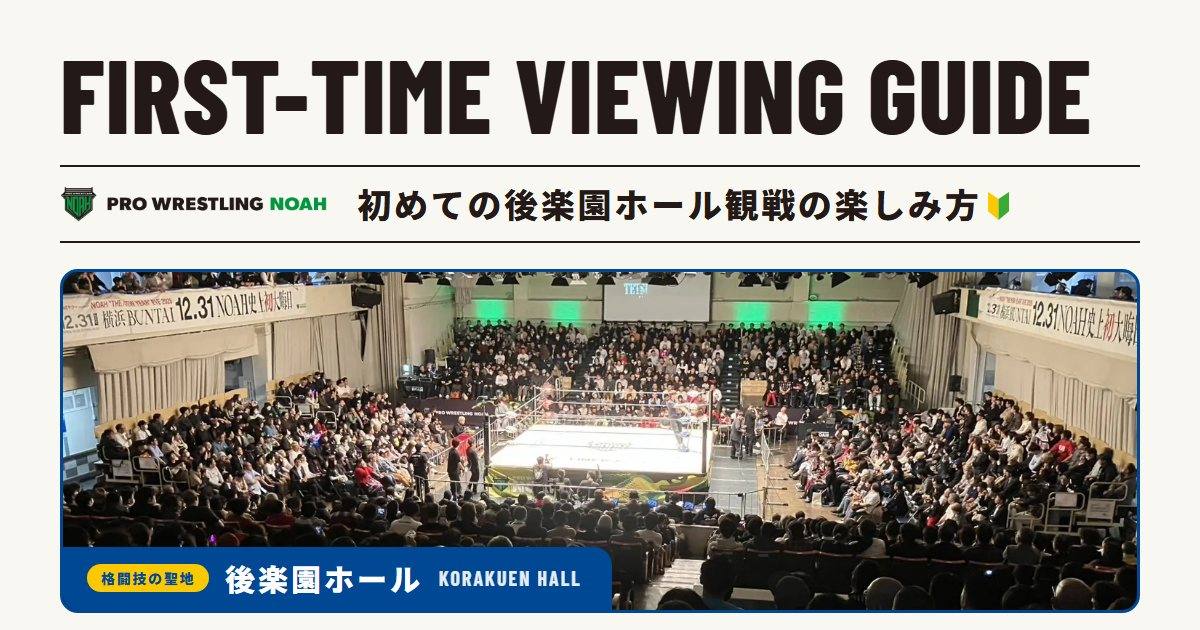
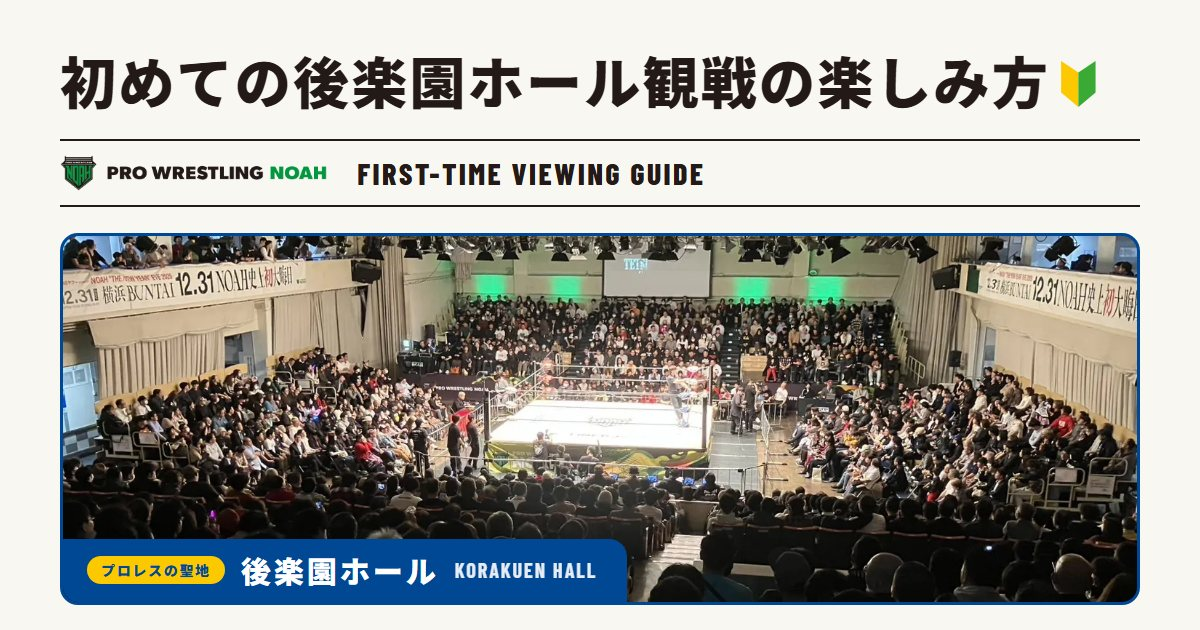
update beginner 2026-11-20_1518

diff --git a/beginner/index.html b/beginner/index.html
@@ -5,10 +5,10 @@
   <meta name="viewport" content="width=device-width, initial-scale=1">
   <meta name="robots" content="noindex,nofollow">
   <title>初めてのNOAH観戦ガイド 後楽園ホール編｜プロレスリング・ノア</title>
-  <meta name="description" content="初めての後楽園ホール観戦の楽しみ方。チケットの買い方、座席とアクセス、グッズの事前購入、サイン会の参加方法、プロレスのルールまで。格闘技の聖地・後楽園ホールで初めてNOAHを観戦する方へのご案内。プロレスリング・ノア。">
+  <meta name="description" content="初めての後楽園ホール観戦の楽しみ方を、チケットの買い方から座席とアクセス、グッズの事前購入、サイン会の参加方法、プロレスのルールまでご案内します。プロレスの聖地・後楽園ホールで初めてプロレスを観戦する方は、ぜひご活用ください。">
   <meta property="og:type" content="website">
   <meta property="og:title" content="初めてのNOAH観戦ガイド 後楽園ホール編｜プロレスリング・ノア">
-  <meta property="og:description" content="初めての後楽園ホール観戦の楽しみ方。チケットの買い方、座席とアクセス、グッズの事前購入、サイン会の参加方法、プロレスのルールまで。格闘技の聖地・後楽園ホールで初めてNOAHを観戦する方へのご案内。プロレスリング・ノア。">
+  <meta property="og:description" content="初めての後楽園ホール観戦の楽しみ方を、チケットの買い方から座席とアクセス、グッズの事前購入、サイン会の参加方法、プロレスのルールまでご案内します。プロレスの聖地・後楽園ホールで初めてプロレスを観戦する方は、ぜひご活用ください。">
   <meta property="og:site_name" content="初めてのNOAH観戦ガイド｜プロレスリング・ノア">
   <meta property="og:url" content="https://www.noah.co.jp/lp/beginner/">
   <meta property="og:image" content="https://www.noah.co.jp/lp/beginner/img/ogp.jpg">
@@ -17,7 +17,7 @@
   <meta name="twitter:card" content="summary_large_image">
   <meta name="twitter:site" content="@noah_ghc">
   <meta name="theme-color" content="#004894">
-  <link rel="icon" href="img/noah_badge.png">
+  <link rel="icon" type="image/png" href="img/favicon.png">
   <link rel="preconnect" href="https://fonts.googleapis.com"><link rel="preconnect" href="https://fonts.gstatic.com" crossorigin>
   <link href="https://fonts.googleapis.com/css2?family=Barlow+Condensed:ital,wght@0,700;0,800;1,800&family=Noto+Sans+JP:wght@700;900&display=swap" rel="stylesheet">
   <!-- Google Tag Manager -->
@@ -83,10 +83,10 @@ h1,h2,h3,h4,b,.sec__lead,.hero__lead,.qk small,.ev__t,.bar__s,.pt p,.gd__n,.last
 
 /* hero */
 .hero{padding:52px 0 28px}
-.hero__en{font-family:var(--ff-en);font-weight:800;font-size:min(9.1vw,104px);line-height:.95;letter-spacing:.01em;white-space:nowrap}
+.hero__en{font-family:var(--ff-en);font-weight:800;font-size:30px;line-height:1;letter-spacing:.08em;white-space:nowrap}
 .hero__row{display:flex;align-items:center;gap:10px 30px;margin-top:22px;padding:14px 0;border-top:2px solid var(--ink);border-bottom:2px solid var(--ink)}
 .hero__row img{height:36px;width:auto;flex:none}
-.hero__ja{font-family:var(--ff-hd);font-weight:900;font-size:clamp(20px,3vw,34px);letter-spacing:.08em;line-height:1.35}
+.hero__ja{font-family:var(--ff-hd);font-weight:900;font-size:min(4.7vw,56px);letter-spacing:.04em;line-height:1.3;white-space:nowrap}
 .hero__lead{font-size:16px;line-height:2;margin-top:26px}
 .mv{position:relative;margin-top:28px;border:3px solid var(--bl);border-radius:18px;overflow:hidden;background:var(--bl)}
 .mv img{width:100%;aspect-ratio:16/9;object-fit:cover;object-position:50% 62%}
@@ -341,9 +341,10 @@ h1,h2,h3,h4,b,.sec__lead,.hero__lead,.qk small,.ev__t,.bar__s,.pt p,.gd__n,.last
   .card__hd .bdg{right:8px;top:-18px}
   .card__bd{padding:18px 16px 20px}
   .hero{padding:30px 0 16px}
-  .hero__en{font-size:19.5vw;white-space:normal}
-  .hero__row{flex-direction:column;align-items:flex-start;margin-top:16px;padding:12px 0}
-  .hero__row img{height:26px}
+  .hero__ja{font-size:8.4vw;line-height:1.32}
+  .hero__en{font-size:4.4vw;letter-spacing:.05em}
+  .hero__row{gap:10px;margin-top:14px;padding:11px 0}
+  .hero__row img{height:4.1vw}
   .hero__lead{font-size:14.5px;line-height:1.95;margin-top:18px}
   br.pc{display:none}
   .mv{margin-top:18px;border-radius:14px}
@@ -438,14 +439,14 @@ h1,h2,h3,h4,b,.sec__lead,.hero__lead,.qk small,.ev__t,.bar__s,.pt p,.gd__n,.last
 <main id="top">
   <section class="hero">
     <div class="wrap">
-      <p class="hero__en">FIRST-TIME <br class="sp">VIEWING GUIDE</p>
-      <div class="hero__row"><img src="img/noah_lockup.png" alt="PRO WRESTLING NOAH" width="772" height="104"><h1 class="hero__ja">初めての後楽園ホール観戦の楽しみ方<svg class="wakaba" viewBox="0 0 24 32" aria-hidden="true"><path d="M0 0l12 8v24L0 22z" fill="#FCC800"/><path d="M24 0L12 8v24l12-10z" fill="#3BAA34"/></svg></h1></div>
+      <h1 class="hero__ja">初めての後楽園ホール<br class="sp">観戦の楽しみ方<svg class="wakaba" viewBox="0 0 24 32" aria-hidden="true"><path d="M0 0l12 8v24L0 22z" fill="#FCC800"/><path d="M24 0L12 8v24l12-10z" fill="#3BAA34"/></svg></h1>
+      <div class="hero__row"><img src="img/noah_lockup.png" alt="PRO WRESTLING NOAH" width="772" height="104"><p class="hero__en">FIRST-TIME VIEWING GUIDE</p></div>
       <figure class="mv"><picture><source media="(max-width:900px)" srcset="img/mv_s.webp"><img src="img/mv.webp" alt="満員の後楽園ホール" width="1477" height="1108" fetchpriority="high"></picture>
-        <figcaption class="mv__cap"><small>格闘技の聖地</small><b>後楽園ホール</b><i>KORAKUEN HALL</i></figcaption></figure>
-      <p class="hero__lead">プロレスを見たことがなくても大丈夫。チケットの買い方から、座席、グッズ、サイン会、当日の楽しみ方まで。<br class="pc">“格闘技の聖地”後楽園ホールで初めてNOAHを観戦する方へ、このページでまとめてご案内します。</p>
+        <figcaption class="mv__cap"><small>プロレスの聖地</small><b>後楽園ホール</b><i>KORAKUEN HALL</i></figcaption></figure>
+      <p class="hero__lead">チケットの買い方から、座席、グッズ、サイン会、当日の楽しみ方までご案内します。<br class="pc">“プロレスの聖地”と言われる後楽園ホールで初めてプロレスを観戦する方は、ぜひこのページをご活用ください。</p>
       <ol class="quick">
         <li><a class="qk" href="#ticket"><span class="qk__no">1</span><span class="qk__b"><b>チケットを買う</b><small>プレイガイドやコンビニで買えます</small></span><span class="qk__ar">↓</span></a></li>
-        <li><a class="qk" href="#goods"><span class="qk__no">2</span><span class="qk__b"><b>グッズを用意する</b><small>公式通販で事前に。当日の会場売店でも</small></span><span class="qk__ar">↓</span></a></li>
+        <li><a class="qk" href="#goods"><span class="qk__no">2</span><span class="qk__b"><b>グッズを用意する</b><small>公式通販で事前に買っておけます</small></span><span class="qk__ar">↓</span></a></li>
         <li><a class="qk" href="#sign"><span class="qk__no">3</span><span class="qk__b"><b>サイン会に参加する</b><small>会場でグッズを買うと参加券がもらえます</small></span><span class="qk__ar">↓</span></a></li>
       </ol>
     </div>
@@ -453,8 +454,8 @@ h1,h2,h3,h4,b,.sec__lead,.hero__lead,.qk small,.ev__t,.bar__s,.pt p,.gd__n,.last
 
   <section id="seat" class="sec">
     <div class="wrap">
-      <div class="bar"><h2 class="bar__t"><span>◎</span>座席と見え方</h2><p class="bar__s">どの席からもリングが近い！</p></div>
-      <p class="sec__lead">東京・後楽園ホールは、1962年の開場以来、数々の名勝負が生まれてきた“格闘技の聖地”。リングを四方から客席が囲むつくりで、いちばん後ろの席からでも、リング全体をしっかり見渡せます。</p>
+      <div class="bar"><h2 class="bar__t"><span>◎</span>座席と見え方</h2><p class="bar__s">座席図と写真でチェックしよう！</p></div>
+      <p class="sec__lead">後楽園ホールは、リングを四方から客席が囲んでいる会場です。座席図と、実際に客席から撮った写真で見え方をご確認ください。</p>
       <article class="card"><div class="card__hd"><h3 class="card__ja">座席図</h3><span class="card__en">SEAT MAP</span></div>
         <div class="card__bd">
           <div class="st2"><svg class="sm" viewBox="60 -150 1890 1500" role="img" aria-label="後楽園ホールの座席図。リングを中心に、北側・東側・西側・南側の客席が囲んでいる">
@@ -462,17 +463,17 @@ h1,h2,h3,h4,b,.sec__lead,.hero__lead,.qk small,.ev__t,.bar__s,.pt p,.gd__n,.last
   <rect x="680" y="448" width="275" height="290" class="sm-ring"/><text x="817" y="622" class="sm-ringt">RING</text>
   <g transform="translate(330,40)"><rect x="-125" y="-54" width="250" height="108" rx="54" class="sm-side"/><text y="26" class="sm-sidet">北側</text></g><g transform="translate(840,-75)"><rect x="-125" y="-54" width="250" height="108" rx="54" class="sm-side"/><text y="26" class="sm-sidet">東側</text></g><g transform="translate(840,1262)"><rect x="-125" y="-54" width="250" height="108" rx="54" class="sm-side"/><text y="26" class="sm-sidet">西側</text></g><g transform="translate(1532,-32)"><rect x="-125" y="-54" width="250" height="108" rx="54" class="sm-side"/><text y="26" class="sm-sidet">南側</text></g>
   <text x="1094" y="620" class="sm-lab w">SS</text><text x="1228" y="330" class="sm-lab w">S</text><text x="1440" y="158" class="sm-lab ">A</text><text x="1790" y="330" class="sm-lab w">B</text>
-  <g transform="translate(1760,597)"><circle r="58" class="sm-pin"/><text y="25" class="sm-pint">1</text></g><g transform="translate(985,150)"><circle r="58" class="sm-pin"/><text y="25" class="sm-pint">2</text></g>
+  <g transform="translate(1760,597)"><circle r="58" class="sm-pin"/><text y="25" class="sm-pint">1</text></g>
 </svg>
-            <div><ul class="sws"><li><i class="sw sw--ss"></i><b>SS席</b><span>リングにいちばん近い席</span></li><li><i class="sw sw--s"></i><b>S席</b></li><li><i class="sw sw--a"></i><b>A席</b></li><li><i class="sw sw--b"></i><b>B席</b></li><li><i class="sw sw--l"></i><b>レディースシート</b><span>女性限定</span></li><li><i class="sw sw--c"></i><b>セントラルシート</b><span>南側中央・限定販売</span></li><li class="sws__pin"><i>1</i><i>2</i>下の写真を撮った場所</li></ul>
+            <div><ul class="sws"><li><i class="sw sw--ss"></i><b>SS席</b><span>リングにいちばん近い席</span></li><li><i class="sw sw--s"></i><b>S席</b></li><li><i class="sw sw--a"></i><b>A席</b></li><li><i class="sw sw--b"></i><b>B席</b></li><li><i class="sw sw--l"></i><b>レディースシート</b><span>女性限定</span></li><li><i class="sw sw--c"></i><b>セントラルシート</b><span>南側中央・限定販売</span></li><li class="sws__pin"><i>1</i>下の写真を撮った場所</li></ul>
               <ul class="notes"><li>座席図は2026年12月6日大会の例です。席種・料金・席の配置は大会によって異なりますので、各大会のページでご確認ください。</li></ul>
               <a class="btn btn--line" href="https://www.noah.co.jp/schedule/" target="_blank" rel="noopener">各大会の席種・料金を見る ↗</a></div>
           </div>
-          <ul class="mns ars"><li><b>リングサイド（SS席）</b><span>リングにいちばん近い、各方角の前から3列（い列〜は列）。選手の迫力を間近で感じられます。</span></li><li><b>南側</b><span>階段状に高くなっていく席で、後ろの列からでもリング全体が見渡せます。中央の「セントラルシート」は、リングの高さやロープの位置も考慮した、観戦しやすく写真撮影にもおすすめのエリアです。</span></li><li><b>東側・西側・北側</b><span>リングを囲む木製のベンチ席。となりの席との境がないので、大きな荷物はひざの上か、コインロッカーへ。</span></li></ul>
+          <ul class="mns ars"><li><b>リングサイド（SS席）</b><span>各方角の前から3列（い列〜は列）で、リングにいちばん近い席です。選手の迫力を間近で感じられます。</span></li><li><b>南側</b><span>階段状に高くなっていく席で、後ろの列からでもリング全体が見渡せます。中央の「セントラルシート」は、リングの高さやロープの位置も考慮した、観戦しやすく写真撮影にもおすすめのエリアです。</span></li><li><b>東側・西側・北側</b><span>リングを囲む木製のベンチ席です。となりの席との境がないので、大きな荷物はひざの上に置くか、コインロッカーへお預けください。</span></li></ul>
         </div>
       </article>
       <article class="card"><div class="card__hd"><h3 class="card__ja">席からの見え方</h3><span class="card__en">VIEW</span></div>
-        <div class="card__bd vws"><figure class="vw"><img src="img/mv.webp" alt="南側のいちばん後ろから" width="1477" height="1108" loading="lazy"><figcaption><span class="vw__no">1</span><b>南側のいちばん後ろから</b><span>リング全体と、会場の盛り上がりをまるごと見渡せます。</span></figcaption></figure><figure class="vw"><img src="img/view_east.webp" alt="東側の席から" width="1200" height="900" loading="lazy"><figcaption><span class="vw__no">2</span><b>東側の席から</b><span>選手の表情や、技の迫力がすぐ目の前に。</span></figcaption></figure></div>
+        <div class="card__bd vws"><figure class="vw"><img src="img/mv.webp" alt="南側のいちばん後ろから" width="1477" height="1108" loading="lazy"><figcaption><span class="vw__no">1</span><b>南側のいちばん後ろから</b><span>リング全体と、会場の盛り上がりをまるごと見渡せます。</span></figcaption></figure><figure class="vw"><img src="img/view_2.webp" alt="リングの近くから" width="1200" height="900" loading="lazy"><figcaption><span class="vw__no">2</span><b>リングの近くから</b><span>選手の表情や技の迫力を、すぐ目の前で感じられます。</span></figcaption></figure></div>
       </article>
     </div>
   </section>
@@ -480,7 +481,7 @@ h1,h2,h3,h4,b,.sec__lead,.hero__lead,.qk small,.ev__t,.bar__s,.pt p,.gd__n,.last
   <section id="schedule" class="sec">
     <div class="wrap">
       <div class="bar"><h2 class="bar__t"><span>◎</span>後楽園ホールの大会日程</h2><p class="bar__s">行きたい大会を選ぼう！</p></div>
-      <p class="sec__lead">行きたい日が決まったら、チケットを用意しよう。平日の夜や、土日・祝日にも開催しています。</p>
+      <p class="sec__lead">行きたい日が決まったら、チケットを購入しよう。平日の夜や、土日・祝日にも開催しています。</p>
       <ul class="evs">
         <li class="ev" data-date="2026-11-28">
           <p class="ev__d"><span class="ev__md">11.28</span><span class="ev__dow">土</span><em class="ev__next">NEXT</em></p>
@@ -526,17 +527,17 @@ h1,h2,h3,h4,b,.sec__lead,.hero__lead,.qk small,.ev__t,.bar__s,.pt p,.gd__n,.last
 
   <section id="ticket" class="sec">
     <div class="wrap">
-      <div class="bar"><span class="bdg" aria-hidden="true"><i>STEP</i><b>1</b></span><h2 class="bar__t"><span>◎</span>チケットを買おう</h2><p class="bar__s">チケットは各プレイガイドで販売中！</p></div>
+      <div class="bar"><span class="bdg" aria-hidden="true"><i>STEP</i><b>1</b></span><h2 class="bar__t"><span>◎</span>チケットを買おう</h2><p class="bar__s">チケットは各プレイガイドで買えます！</p></div>
       <p class="sec__lead">チケットは各プレイガイドで販売しています。スマートフォンから買えて、コンビニでも購入・受け取りができます。</p>
       <article class="card"><div class="card__hd"><h3 class="card__ja">プレイガイド</h3><span class="card__en">PLAY GUIDE</span></div>
         <div class="card__bd"><div class="pgs">
-          <a class="pg" href="https://eplus.jp/noah/" target="_blank" rel="noopener"><span class="pg__n">e+（イープラス）</span><span class="pg__s">Webで予約して、セブン-イレブン／ファミリーマートで受け取り。ファミリーマートのマルチコピー機で直接購入もできます</span><b class="btn btn--pri">チケットを購入する ↗</b></a>
+          <a class="pg" href="https://eplus.jp/noah/" target="_blank" rel="noopener"><span class="pg__n">e+（イープラス）</span><span class="pg__s">Webで予約して、セブン-イレブン／ファミリーマートで受け取れます。ファミリーマートのマルチコピー機で直接購入もできます</span><b class="btn btn--pri">チケットを購入する ↗</b></a>
           <a class="pg" href="https://t.pia.jp/pia/artist/artists.do?artistsCd=11027339" target="_blank" rel="noopener"><span class="pg__n">チケットぴあ</span><span class="pg__s">セブン-イレブンで購入・発券できます</span><b class="btn btn--pri">チケットを購入する ↗</b></a>
           <a class="pg" href="https://l-tike.com/sports/mevent/?mid=111745" target="_blank" rel="noopener"><span class="pg__n">ローソンチケット</span><span class="pg__s">ローソン／ミニストップ店頭のLoppiで購入できます</span><b class="btn btn--pri">チケットを購入する ↗</b></a>
         </div></div>
       </article>
       <article class="card"><div class="card__hd"><h3 class="card__ja">知っておくと便利</h3><span class="card__en">TIPS</span></div>
-        <div class="card__bd"><ul class="mns"><li><b>小中学生は無料で観戦できます</b><span>大会当日のみの受付です。当日券の販売開始時間以降に、後楽園ホール5階の受付へ。年齢のわかるもの（保険証・学生証など）をお持ちください。前売券が完売した大会では実施しません。</span></li><li><b>当日券は残席があるときだけ</b><span>販売開始時間は大会ごとに異なり、前日までに公式サイトのニュース（直前情報）でお知らせします。前売券で完売する大会もあるので、早めの購入がおすすめです。</span></li><li><b>座席図を見て買いたいときは</b><span>NOAHの大会会場にある前売り券ブースなら、座席図を見ながら購入できます。</span></li></ul>
+        <div class="card__bd"><ul class="mns"><li><b>小中学生は無料で観戦できます</b><span>大会当日のみの受付です。当日券の販売開始時間以降に、後楽園ホール5階の受付へお越しください。年齢のわかるもの（保険証・学生証など）をお持ちください。前売券が完売した大会では実施しません。</span></li><li><b>当日券は残席があるときに販売します</b><span>販売開始時間は大会ごとに異なり、前日までに公式サイトのニュース（直前情報）でお知らせします。前売券で完売する大会もあるので、早めの購入がおすすめです。</span></li><li><b>座席図を見て買いたいときは</b><span>NOAHの大会会場にある前売り券ブースなら、座席図を見ながら購入できます。</span></li></ul>
           <div class="tk__more"><p>席種と料金は大会ごとに異なります。各大会のページでご確認ください。</p><a class="btn btn--line" href="https://www.noah.co.jp/schedule/" target="_blank" rel="noopener">各大会の席種・料金を見る ↗</a></div>
         </div>
       </article>
@@ -547,7 +548,7 @@ h1,h2,h3,h4,b,.sec__lead,.hero__lead,.qk small,.ev__t,.bar__s,.pt p,.gd__n,.last
   <section id="goods" class="sec">
     <div class="wrap">
       <div class="bar"><span class="bdg" aria-hidden="true"><i>STEP</i><b>2</b></span><h2 class="bar__t"><span>◎</span>グッズを用意しよう</h2><p class="bar__s">グッズは事前に買って行ける！</p></div>
-      <p class="sec__lead">Tシャツやタオルを身につけると、応援がもっと楽しくなります。グッズは公式通販で事前に買っておけるので、当日はそのまま会場へ。</p>
+      <p class="sec__lead">Tシャツやタオルを身につけると、応援がもっと楽しくなります。グッズは公式通販で事前に買っておけるので、当日は身につけて会場へ行けます。</p>
       <article class="card"><div class="card__hd"><h3 class="card__ja">公式通販で買う</h3><span class="card__en">NOAH THE SHOP</span></div>
         <div class="card__bd">
           <span class="lab">行く前に買う</span>
@@ -558,14 +559,14 @@ h1,h2,h3,h4,b,.sec__lead,.hero__lead,.qk small,.ev__t,.bar__s,.pt p,.gd__n,.last
             <li><a class="gd" href="https://shop.noah.co.jp/products/20251011penlight" target="_blank" rel="noopener"><img src="img/gd_penlight.webp" alt="プロレスリング・ノア ドーム型ペンライト" width="560" height="560" loading="lazy"><span class="gd__n">プロレスリング・ノア ドーム型ペンライト</span><span class="gd__p">¥4,400</span></a></li>
             <li><a class="gd" href="https://shop.noah.co.jp/products/20260214-love-cb" target="_blank" rel="noopener"><img src="img/gd_badge.webp" alt="N♡AH LOVE 缶バッジ" width="560" height="560" loading="lazy"><span class="gd__n">N♡AH LOVE 缶バッジ</span><span class="gd__p">¥550</span></a></li>
           </ul>
-          <div class="gds__ft"><a class="btn btn--pri" href="https://shop.noah.co.jp/collections/%F0%9F%94%B0-%E5%88%9D%E5%BF%83%E8%80%85%E6%AD%93%E8%BF%8E-%E5%BF%9C%E6%8F%B4%E3%82%B0%E3%83%83%E3%82%BA" target="_blank" rel="noopener">ビギナー応援グッズを見る ↗</a><small>※価格は通販価格（税込）。購入金額15,000円（税込）以上で送料無料。</small></div>
+          <div class="gds__ft"><a class="btn btn--pri" href="https://shop.noah.co.jp/collections/%F0%9F%94%B0-%E5%88%9D%E5%BF%83%E8%80%85%E6%AD%93%E8%BF%8E-%E5%BF%9C%E6%8F%B4%E3%82%B0%E3%83%83%E3%82%BA" target="_blank" rel="noopener">ビギナー応援グッズを見る ↗</a><small>※価格は通販価格（税込）です。購入金額15,000円（税込）以上で送料無料になります。</small></div>
         </div>
       </article>
       <article class="card"><div class="card__hd"><h3 class="card__ja">会場のグッズ売店</h3><span class="card__en">AT THE VENUE</span></div>
         <div class="card__bd vn"><img src="img/en_goods.webp" alt="会場のグッズ売店" width="579" height="447" loading="lazy">
           <div><span class="lab">当日に買う</span>
             <p class="gds__tx">会場にはグッズ売り場があるので、推しのグッズを買って応援しよう！大会記念グッズなど「数量限定グッズ」は特にお見逃しなく！</p>
-            <ul class="chk"><li>開場後、試合が始まる前の時間に買うのがおすすめ</li><li>お支払いは現金のほか、クレジットカード・交通系IC・PayPayなどのキャッシュレス決済が使えます</li><li>対象商品を買うと、試合前サイン会の参加券がもらえます</li></ul>
+            <ul class="chk"><li>開場後、試合が始まる前の時間に買うのがおすすめです</li><li>お支払いは現金のほか、クレジットカード・交通系IC・PayPayなどのキャッシュレス決済が使えます</li><li>対象商品を買うと、試合前サイン会の参加券がもらえます</li></ul>
             <ul class="notes"><li>会場の電波状況によっては現金のみの取り扱いとなる場合があります。</li></ul>
           </div>
         </div>
@@ -579,7 +580,7 @@ h1,h2,h3,h4,b,.sec__lead,.hero__lead,.qk small,.ev__t,.bar__s,.pt p,.gd__n,.last
       <p class="sec__lead">NOAHの会場では、試合前に選手のサイン会が開かれることがあります。会場のグッズ売店で対象商品を買えば、どなたでも参加できます。</p>
       <article class="card"><div class="card__hd"><h3 class="card__ja">参加の流れ</h3><span class="card__en">HOW TO JOIN</span></div>
         <div class="card__bd">
-          <ol class="sts"><li><span class="st__no">1</span><b>登場選手と時刻をチェック</b><span>サイン会の開催は、大会の数日前に公式サイトのニュースで発表されます。</span></li><li><span class="st__no">2</span><b>グッズ売店で対象商品を買う</b><span>対象商品1点につき、サイン会参加券を1枚お渡しします。</span></li><li><span class="st__no">3</span><b>開始時刻になったら列へ</b><span>参加券と買った商品を持って、サイン会の列にお並びください。</span></li><li><span class="st__no">4</span><b>選手にサインをもらう</b><span>サインは買ったグッズ、またはNOAHオリジナル色紙にお入れします。</span></li></ol>
+          <ol class="sts"><li><span class="st__no">1</span><b>登場選手と時刻をチェックする</b><span>サイン会の開催は、大会の数日前に公式サイトのニュースで発表されます。</span></li><li><span class="st__no">2</span><b>グッズ売店で対象商品を買う</b><span>対象商品1点につき、サイン会参加券を1枚お渡しします。</span></li><li><span class="st__no">3</span><b>開始時刻になったら列に並ぶ</b><span>参加券と買った商品を持って、サイン会の列にお並びください。</span></li><li><span class="st__no">4</span><b>選手にサインをもらう</b><span>サインは買ったグッズ、またはNOAHオリジナル色紙にお入れします。</span></li></ol>
           <div class="sgp"><img src="img/sg_1.webp" alt="色紙にサインを書く選手" width="800" height="533" loading="lazy"><img src="img/sg_2.webp" alt="ポートレートにサインを書く選手" width="800" height="533" loading="lazy"><img src="img/sg_3.webp" alt="サインを渡して握手する選手" width="800" height="533" loading="lazy"></div>
           <div class="sg2">
             <div class="exm"><span class="lab">お知らせの例</span><img src="img/sign_info.webp" alt="サイン会情報の告知画像" width="1200" height="675" loading="lazy"><p>サイン会がある大会では、登場選手と開始時刻をこのような画像でお知らせします（2026年11月9日 後楽園ホール大会の例）。</p></div>
@@ -593,7 +594,7 @@ h1,h2,h3,h4,b,.sec__lead,.hero__lead,.qk small,.ev__t,.bar__s,.pt p,.gd__n,.last
 
   <section id="day" class="sec">
     <div class="wrap">
-      <div class="bar"><h2 class="bar__t"><span>◎</span>アクセスと当日の流れ</h2><p class="bar__s">会場は水道橋駅・後楽園駅から徒歩約3分！</p></div>
+      <div class="bar"><h2 class="bar__t"><span>◎</span>アクセスと当日の流れ</h2><p class="bar__s">水道橋駅・後楽園駅から歩いて約3分で着きます！</p></div>
       <p class="sec__lead">後楽園ホールは東京ドームのとなり、東京ドームシティの中にあります。水道橋駅・後楽園駅から歩いて約3分です。</p>
       <article class="card"><div class="card__hd"><h3 class="card__ja">アクセス</h3><span class="card__en">ACCESS</span></div>
         <div class="card__bd ac">
@@ -607,10 +608,10 @@ h1,h2,h3,h4,b,.sec__lead,.hero__lead,.qk small,.ev__t,.bar__s,.pt p,.gd__n,.last
         </div>
       </article>
       <article class="card"><div class="card__hd"><h3 class="card__ja">当日の流れ</h3><span class="card__en">TIMELINE</span></div>
-        <div class="card__bd"><ol class="fls"><li><span class="fl__tm">17:30</span><b>開場</b><span>試合開始の1時間前に開場します。チケットを持って後楽園ホールビルの5階へ。</span></li><li><span class="fl__tm">入場後</span><b>グッズ・サイン会</b><span>グッズ売店やファンクラブブースをのぞいてみよう。試合前サイン会もこの時間です。</span></li><li><span class="fl__tm">18:30</span><b>試合開始</b><span>自分の席で観戦スタート。声援や拍手で選手を応援しよう！</span></li></ol><ul class="notes fl__note"><li>時刻は開場17:30／試合開始18:30の大会の例です。大会によって異なりますので、各大会のページでご確認ください。終了時間は試合の数や進行によって変わります。</li></ul></div>
+        <div class="card__bd"><ol class="fls"><li><span class="fl__tm">17:30</span><b>開場</b><span>試合開始の1時間前に開場します。チケットを持って、後楽園ホールビルの5階へお越しください。</span></li><li><span class="fl__tm">入場後</span><b>グッズ・サイン会ほか</b><span>グッズ売店やファンクラブブースをのぞいてみよう。試合前サイン会もこの時間です。また、その日ごとにさまざまな企画を実施していますので、いろいろなブースをのぞいてみてください。</span></li><li><span class="fl__tm">18:30</span><b>試合開始</b><span>自分の席に座って、声援や拍手で選手を応援しよう！</span></li></ol><ul class="notes fl__note"><li>時刻は開場17:30／試合開始18:30の大会の例です。大会によって異なりますので、各大会のページでご確認ください。終了時間は試合の数や進行によって変わります。</li></ul></div>
       </article>
       <article class="card"><div class="card__hd"><h3 class="card__ja">観戦マナー</h3><span class="card__en">MANNERS</span></div>
-        <div class="card__bd"><ul class="mns mns--2"><li><b>写真・動画の撮影OK</b><span>写真・動画撮影OK！1分以内の動画ならSNSへの投稿もできます。 <a class="tl" href="https://www.noah.co.jp/news/6476/" target="_blank" rel="noopener">動画撮影の際の注意事項 ↗</a></span></li><li><b>大きな荷物はコインロッカーへ</b><span>東・西・北側は木製のベンチ席で、となりの席との境がありません。大きな荷物はひざの上か、会場1階・当日券売場近くのコインロッカーへ。</span></li><li><b>背もたれにもたれて観戦</b><span>前かがみになると、後ろの方からリングが見えづらくなります。</span></li><li><b>声援はリングに向かって</b><span>声を出しての応援OK。悪質なヤジは禁止です。応援横断幕の掲示、紙テープの投げ入れはできません。</span></li></ul></div>
+        <div class="card__bd"><ul class="mns mns--2"><li><b>写真・動画の撮影OK</b><span>写真・動画撮影OK！1分以内の動画ならSNSへの投稿もできます。 <a class="tl" href="https://www.noah.co.jp/news/6476/" target="_blank" rel="noopener">動画撮影の際の注意事項 ↗</a></span></li><li><b>大きな荷物はコインロッカーに預けよう</b><span>東・西・北側は木製のベンチ席で、となりの席との境がありません。大きな荷物はひざの上に置くか、会場1階・当日券売場近くのコインロッカーへお預けください。</span></li><li><b>背もたれにもたれて観戦しよう</b><span>前かがみになると、後ろの方からリングが見えづらくなります。</span></li><li><b>声を出して応援しよう</b><span>声を出しての応援はOKです。悪質なヤジは禁止です。応援横断幕の掲示、紙テープの投げ入れはできません。</span></li></ul></div>
       </article>
     </div>
   </section>
@@ -655,8 +656,8 @@ h1,h2,h3,h4,b,.sec__lead,.hero__lead,.qk small,.ev__t,.bar__s,.pt p,.gd__n,.last
 
   <section id="korakuen" class="sec">
     <div class="wrap">
-      <div class="bar"><h2 class="bar__t"><span>◎</span>後楽園ホールの試合映像</h2><p class="bar__s">超満員の熱気を、映像でチェック！</p></div>
-      <p class="sec__lead">NOAHがいちばん多く大会を開いている“ホーム”、後楽園ホール。会場全体がひとつになって盛り上がる熱気を、映像と写真でご覧ください。</p>
+      <div class="bar"><h2 class="bar__t"><span>◎</span>後楽園ホールの試合映像</h2><p class="bar__s">超満員の熱気を映像でチェックしよう！</p></div>
+      <p class="sec__lead">後楽園ホール大会の熱気を、映像と写真でご覧ください。</p>
       <figure class="vd"><a class="yt" href="https://youtu.be/m__mdQ6pxmI" data-yt="m__mdQ6pxmI" target="_blank" rel="noopener" aria-label="映像を再生する"><img src="img/video_m__mdQ6pxmI.jpg" alt="後楽園ホール大会の全試合ダイジェスト" width="1280" height="720" loading="lazy"><span class="yt__pl" aria-hidden="true"></span></a>
         <figcaption><b>後楽園ホール大会の全試合ダイジェスト</b><span>2026年11月9日 後楽園ホール大会（NOAH公式YouTube）</span></figcaption></figure>
       <div class="phs"><img src="img/ph_3.webp" alt="リング上で宙を舞う選手" width="960" height="640" loading="lazy"><img src="img/ph_13.webp" alt="マイクで観客に語りかける選手" width="960" height="640" loading="lazy"><img src="img/ph_5.webp" alt="勝ち名乗りを受ける選手たち" width="960" height="640" loading="lazy"><img src="img/ph_6.webp" alt="技を仕掛ける選手" width="960" height="640" loading="lazy"><img src="img/ph_4.webp" alt="レフェリーと選手のやりとり" width="960" height="640" loading="lazy"><img src="img/ph_12.webp" alt="リング上で向かい合う選手" width="960" height="640" loading="lazy"></div>
@@ -665,7 +666,7 @@ h1,h2,h3,h4,b,.sec__lead,.hero__lead,.qk small,.ev__t,.bar__s,.pt p,.gd__n,.last
 
   <section id="faq" class="sec">
     <div class="wrap">
-      <div class="bar"><h2 class="bar__t"><span>◎</span>よくある質問</h2><p class="bar__s">気になることは、ここでチェック！</p></div>
+      <div class="bar"><h2 class="bar__t"><span>◎</span>よくある質問</h2><p class="bar__s">気になることをチェックしよう！</p></div>
       <div class="fqs"><details class="fq"><summary><span>Q</span>当日券はありますか？</summary><p>チケットに残りがある場合は、大会当日に当日券を販売します。販売開始時間は大会ごとに異なり、前日までに公式サイトのニュース（直前情報）でお知らせします。</p></details><details class="fq"><summary><span>Q</span>子どもと一緒に観戦できますか？</summary><p>小中学生は無料で観戦できます（大会当日のみ受付）。大人の方と一緒に観戦する場合は、当日の受付で大人の方の当日券もあわせてお求めください。お子様と確実に並びの席で観戦したい場合は、お子様の分もチケットを購入いただくのがおすすめです。</p></details><details class="fq"><summary><span>Q</span>チケットはコンビニでも買えますか？</summary><p>ローソン・ミニストップ（Loppi）、セブン-イレブン（チケットぴあ）、ファミリーマート（e+）でお買い求めいただけます。</p></details><details class="fq"><summary><span>Q</span>サイン会には、どうすれば参加できますか？</summary><p>大会当日、会場のグッズ売店で対象商品を1点購入するごとに、サイン会参加券を1枚お渡しします。参加券1枚で1ブースに参加できます。</p></details><details class="fq"><summary><span>Q</span>大会は何時ごろ終わりますか？</summary><p>当日の試合数や決着時間、進行状況によって異なるため、ご案内していません。</p></details><details class="fq"><summary><span>Q</span>買ったチケットをキャンセルできますか？</summary><p>原則として、大会中止の場合を除き払い戻しはできません。チケットを紛失した場合の再発行もできませんのでご注意ください。</p></details><details class="fq"><summary><span>Q</span>車いすで観戦できますか？</summary><p>個別にご案内しますので、公式サイトのお問い合わせフォームから、ご希望の大会をお知らせください。</p></details></div>
       <p class="more"><a class="btn btn--line" href="https://www.noah.co.jp/faq/" target="_blank" rel="noopener">公式サイトのQ&amp;Aをもっと見る ↗</a></p>
     </div>
@@ -673,8 +674,8 @@ h1,h2,h3,h4,b,.sec__lead,.hero__lead,.qk small,.ev__t,.bar__s,.pt p,.gd__n,.last
 
   <section class="last">
     <div class="wrap">
-      <p class="last__t">さあ、後楽園ホールへ。<svg class="wakaba" viewBox="0 0 24 32" aria-hidden="true"><path d="M0 0l12 8v24L0 22z" fill="#FCC800"/><path d="M24 0L12 8v24l12-10z" fill="#3BAA34"/></svg></p>
-      <p class="last__s">はじめての一歩は、チケットから。</p>
+      <p class="last__t">初めての一歩を踏み出そう！<svg class="wakaba" viewBox="0 0 24 32" aria-hidden="true"><path d="M0 0l12 8v24L0 22z" fill="#FCC800"/><path d="M24 0L12 8v24l12-10z" fill="#3BAA34"/></svg></p>
+      <p class="last__s">後楽園ホールでお待ちしています。</p>
       <div class="last__b"><a class="btn btn--yl" href="#schedule">大会日程を見る</a><a class="btn btn--pri" href="#ticket">チケットを買う</a></div>
     </div>
   </section>

diff --git a/src/beginner/build.py b/src/beginner/build.py
@@ -104,7 +104,7 @@ def seatmap():
   <rect x="680" y="448" width="275" height="290" class="sm-ring"/><text x="817" y="622" class="sm-ringt">RING</text>
   {side('北側', 330, 40)}{side('東側', 840, -75)}{side('西側', 840, 1262)}{side('南側', 1532, -32)}
   {lab('SS', 1094, 620, 'w')}{lab('S', 1228, 330, 'w')}{lab('A', 1440, 158)}{lab('B', 1790, 330, 'w')}
-  {pin(1, 1760, 597)}{pin(2, 985, 150)}
+  {''.join(pin(v['no'], *v['pin']) for v in ST['views'] if v.get('pin'))}
 </svg>'''
 
 def seat_types():
@@ -163,7 +163,7 @@ def faq():
 def footer_links(): return ''.join(f'<li><a href="{esc(l["url"])}" target="_blank" rel="noopener">{esc(l["label"])}</a></li>' for l in D['footer_links'])
 
 noindex = '<meta name="robots" content="noindex,nofollow">\n  ' if args.noindex else ''
-desc = f"{S['sub']}。チケットの買い方、座席とアクセス、グッズの事前購入、サイン会の参加方法、プロレスのルールまで。格闘技の聖地・後楽園ホールで初めてNOAHを観戦する方へのご案内。プロレスリング・ノア。"
+desc = f"{S['sub'].replace('|', '')}を、チケットの買い方から座席とアクセス、グッズの事前購入、サイン会の参加方法、プロレスのルールまでご案内します。プロレスの聖地・後楽園ホールで初めてプロレスを観戦する方は、ぜひご活用ください。"
 V = DY['venue']
 MV = S['mv']
 mw, mh = Image.open(f"out/img/{MV['img']}.webp").size
@@ -229,10 +229,10 @@ h1,h2,h3,h4,b,.sec__lead,.hero__lead,.qk small,.ev__t,.bar__s,.pt p,.gd__n,.last
 
 /* hero */
 .hero{{padding:52px 0 28px}}
-.hero__en{{font-family:var(--ff-en);font-weight:800;font-size:min(9.1vw,104px);line-height:.95;letter-spacing:.01em;white-space:nowrap}}
+.hero__en{{font-family:var(--ff-en);font-weight:800;font-size:30px;line-height:1;letter-spacing:.08em;white-space:nowrap}}
 .hero__row{{display:flex;align-items:center;gap:10px 30px;margin-top:22px;padding:14px 0;border-top:2px solid var(--ink);border-bottom:2px solid var(--ink)}}
 .hero__row img{{height:36px;width:auto;flex:none}}
-.hero__ja{{font-family:var(--ff-hd);font-weight:900;font-size:clamp(20px,3vw,34px);letter-spacing:.08em;line-height:1.35}}
+.hero__ja{{font-family:var(--ff-hd);font-weight:900;font-size:min(4.7vw,56px);letter-spacing:.04em;line-height:1.3;white-space:nowrap}}
 .hero__lead{{font-size:16px;line-height:2;margin-top:26px}}
 .mv{{position:relative;margin-top:28px;border:3px solid var(--bl);border-radius:18px;overflow:hidden;background:var(--bl)}}
 .mv img{{width:100%;aspect-ratio:16/9;object-fit:cover;object-position:50% 62%}}
@@ -487,9 +487,10 @@ h1,h2,h3,h4,b,.sec__lead,.hero__lead,.qk small,.ev__t,.bar__s,.pt p,.gd__n,.last
   .card__hd .bdg{{right:8px;top:-18px}}
   .card__bd{{padding:18px 16px 20px}}
   .hero{{padding:30px 0 16px}}
-  .hero__en{{font-size:19.5vw;white-space:normal}}
-  .hero__row{{flex-direction:column;align-items:flex-start;margin-top:16px;padding:12px 0}}
-  .hero__row img{{height:26px}}
+  .hero__ja{{font-size:8.4vw;line-height:1.32}}
+  .hero__en{{font-size:4.4vw;letter-spacing:.05em}}
+  .hero__row{{gap:10px;margin-top:14px;padding:11px 0}}
+  .hero__row img{{height:4.1vw}}
   .hero__lead{{font-size:14.5px;line-height:1.95;margin-top:18px}}
   br.pc{{display:none}}
   .mv{{margin-top:18px;border-radius:14px}}
@@ -586,7 +587,7 @@ HTML = f'''<!DOCTYPE html>
   <meta name="twitter:card" content="summary_large_image">
   <meta name="twitter:site" content="@noah_ghc">
   <meta name="theme-color" content="{T['blue']}">
-  <link rel="icon" href="img/noah_badge.png">
+  <link rel="icon" type="image/png" href="img/favicon.png">
   <link rel="preconnect" href="https://fonts.googleapis.com"><link rel="preconnect" href="https://fonts.gstatic.com" crossorigin>
   <link href="https://fonts.googleapis.com/css2?family=Barlow+Condensed:ital,wght@0,700;0,800;1,800&family=Noto+Sans+JP:wght@700;900&display=swap" rel="stylesheet">
   <!-- Google Tag Manager -->
@@ -611,8 +612,8 @@ HTML = f'''<!DOCTYPE html>
 <main id="top">
   <section class="hero">
     <div class="wrap">
-      <p class="hero__en">FIRST-TIME <br class="sp">VIEWING GUIDE</p>
-      <div class="hero__row">{img('noah_lockup.png', 'PRO WRESTLING NOAH', eager=True)}<h1 class="hero__ja">{esc(S['sub'])}{WAKABA}</h1></div>
+      <h1 class="hero__ja">{esc(S['sub']).replace('|', '<br class="sp">')}{WAKABA}</h1>
+      <div class="hero__row">{img('noah_lockup.png', 'PRO WRESTLING NOAH', eager=True)}<p class="hero__en">{esc(S['en'])}</p></div>
       <figure class="mv"><picture><source media="(max-width:900px)" srcset="img/{MV['img_s']}.webp"><img src="img/{MV['img']}.webp" alt="{esc(MV['alt'])}" width="{mw}" height="{mh}" fetchpriority="high"></picture>
         <figcaption class="mv__cap"><small>{esc(MV['label'])}</small><b>{esc(MV['name'])}</b><i>{esc(MV['en'])}</i></figcaption></figure>
       <p class="hero__lead">{esc(S['lead']).replace('|', '<br class="pc">')}</p>
@@ -628,7 +629,7 @@ HTML = f'''<!DOCTYPE html>
       <article class="card">{card_hd('座席図', 'SEAT MAP')}
         <div class="card__bd">
           <div class="st2">{seatmap()}
-            <div><ul class="sws">{seat_types()}<li class="sws__pin"><i>1</i><i>2</i>下の写真を撮った場所</li></ul>
+            <div><ul class="sws">{seat_types()}<li class="sws__pin">{"".join(f"<i>{esc(v["no"])}</i>" for v in ST["views"] if v.get("pin"))}下の写真を撮った場所</li></ul>
               {li([ST['note']])}
               <a class="btn btn--line" href="{esc(ST['url'])}" target="_blank" rel="noopener">{esc(ST['btn'])} ↗</a></div>
           </div>
@@ -654,7 +655,7 @@ HTML = f'''<!DOCTYPE html>
 
   <section id="ticket" class="sec">
     <div class="wrap">
-      {bar('チケットを買おう', 'チケットは各プレイガイドで販売中！', '1')}
+      {bar('チケットを買おう', 'チケットは各プレイガイドで買えます！', '1')}
       <p class="sec__lead">{esc(TK['lead'])}</p>
       <article class="card">{card_hd('プレイガイド', 'PLAY GUIDE')}
         <div class="card__bd"><div class="pgs">{playguides()}
@@ -714,7 +715,7 @@ HTML = f'''<!DOCTYPE html>
 
   <section id="day" class="sec">
     <div class="wrap">
-      {bar('アクセスと当日の流れ', '会場は水道橋駅・後楽園駅から徒歩約3分！')}
+      {bar('アクセスと当日の流れ', '水道橋駅・後楽園駅から歩いて約3分で着きます！')}
       <p class="sec__lead">{esc(DY['lead'])}</p>
       <article class="card">{card_hd('アクセス', 'ACCESS')}
         <div class="card__bd ac">
@@ -761,7 +762,7 @@ HTML = f'''<!DOCTYPE html>
 
   <section id="faq" class="sec">
     <div class="wrap">
-      {bar('よくある質問', '気になることは、ここでチェック！')}
+      {bar('よくある質問', '気になることをチェックしよう！')}
       <div class="fqs">{faq()}</div>
       <p class="more"><a class="btn btn--line" href="{esc(FQ['url'])}" target="_blank" rel="noopener">公式サイトのQ&amp;Aをもっと見る ↗</a></p>
     </div>
@@ -769,8 +770,8 @@ HTML = f'''<!DOCTYPE html>
 
   <section class="last">
     <div class="wrap">
-      <p class="last__t">さあ、後楽園ホールへ。{WAKABA}</p>
-      <p class="last__s">はじめての一歩は、チケットから。</p>
+      <p class="last__t">{esc(D['last']['t'])}{WAKABA}</p>
+      <p class="last__s">{esc(D['last']['s'])}</p>
       <div class="last__b"><a class="btn btn--yl" href="#schedule">大会日程を見る</a><a class="btn btn--pri" href="#ticket">チケットを買う</a></div>
     </div>
   </section>

diff --git a/src/beginner/shot.py b/src/beginner/shot.py
@@ -28,7 +28,7 @@ with sync_playwright() as p:
     # OGP: ヒーローの文字部分を 1200x630 で
     pg = b.new_page(viewport={'width': 1200, 'height': 630}, device_scale_factor=1)
     pg.goto(url); pg.wait_for_timeout(1500)
-    pg.add_style_tag(content='.topwrap{display:none}.hero{padding-top:44px}.hero__lead{display:none}.mv{margin-top:26px}.mv img{aspect-ratio:1080/340;object-position:50% 40%}.wrap{width:1080px}')
+    pg.add_style_tag(content='.topwrap{display:none}.hero{padding-top:44px}.hero__lead{display:none}.mv{margin-top:26px}.quick{display:none}.mv img{aspect-ratio:1080/368;object-position:50% 40%}.wrap{width:1080px}')
     pg.wait_for_timeout(300)
     pg.screenshot(path=f'{dst}/ogp.png')
     Image.open(f'{dst}/ogp.png').convert('RGB').save('out/img/ogp.jpg', quality=84, optimize=True)

diff --git a/src/beginner/prep_photos.py b/src/beginner/prep_photos.py
@@ -18,7 +18,7 @@ def save(im, name, w, q=80, ratio=None, cx=.5, cy=.5):
 U = lambda n: Image.open(f'uploads/{n}')
 save(U('1.jpg'), 'mv', 1477, 80)                 # メインビジュアル(満員の後楽園ホール・南側後方から)
 save(U('1.jpg'), 'mv_s', 800, 76)
-save(U('2.jpg'), 'view_east', 1200, 80)          # 東側の席からの見え方
+save(U('2.jpg'), 'view_2', 1200, 80)          # 席からの見え方(撮影位置は確認中)
 for n in (3, 13, 5, 6, 4, 12):                   # 試合写真ギャラリー
     save(U(f'{n}.jpg'), f'ph_{n}', 960, 78, ratio=3 / 2)
 save(U('14.webp'), 'sign_info', 1200, 82)        # サイン会告知の例(11.9 後楽園)
